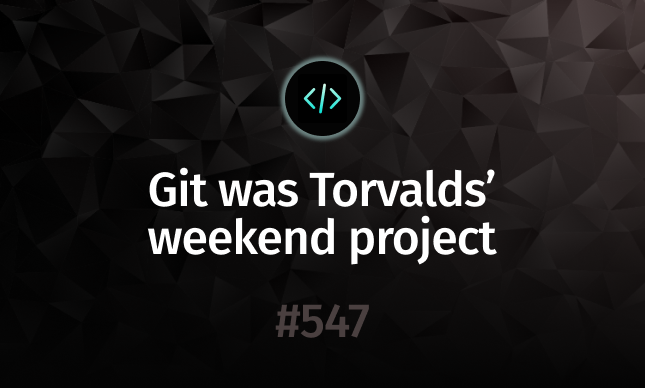
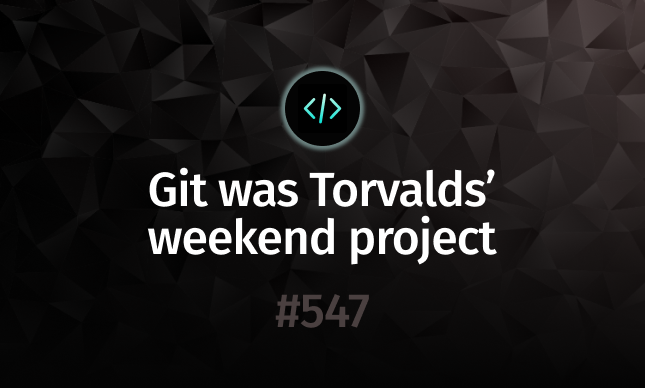
Tigther OG + remove css

Changed region(s): [[0.4341, 0.1237, 0.5891, 0.4021], [0.4031, 0.7423, 0.5891, 0.866]]

diff --git a/styles/globals.css b/styles/globals.css
@@ -70,141 +70,6 @@
   }
 }
 
-
-.tilt-card {
-  position: relative;
-  width: 300px;
-  height: 300px;
-}
-.tilt-card-contents {
-  font-family: "Fira Sans", sans-serif;
-  position: absolute;
-  /* background: url(https://source.unsplash.com/300x300/?cat) 50% 50% / cover no-repeat; */
-  box-shadow: 0 0 50px rgba(0, 0, 0, 0.3);
-  transition: 0.5s ease;
-}
-.hover-point {
-  position: absolute;
-  z-index: 2;
-  width: calc(100% / 3);
-  height: calc(100% / 3);
-}
-.hover-point:nth-child(1) {
-  top: 0;
-  left: 0;
-}
-.hover-point:nth-child(2) {
-  top: 0;
-  left: calc(100% / 3);
-}
-.hover-point:nth-child(3) {
-  top: 0;
-  right: 0;
-}
-.hover-point:nth-child(4) {
-  top: calc(100% / 3);
-  left: 0;
-}
-.hover-point:nth-child(5) {
-  top: calc(100% / 3);
-  right: 0;
-}
-.hover-point:nth-child(6) {
-  bottom: 0;
-  left: 0;
-}
-.hover-point:nth-child(7) {
-  bottom: 0;
-  left: calc(100% / 3);
-}
-.hover-point:nth-child(8) {
-  bottom: 0;
-  right: 0;
-}
-.hover-point:nth-child(1):hover ~ .tilt-card-contents {
-  box-shadow: 15px 15px 50px rgba(0, 0, 0, 0.3);
-  transform-origin: right top;
-  transform: perspective(1000px) rotateX(10deg) rotateY(-10deg) rotateZ(2deg);
-}
-.hover-point:nth-child(2):hover ~ .tilt-card-contents {
-  box-shadow: 0 15px 50px rgba(0, 0, 0, 0.3);
-  transform-origin: center top;
-  transform: perspective(1000px) rotateX(10deg);
-}
-.hover-point:nth-child(3):hover ~ .tilt-card-contents {
-  box-shadow: -15px 15px 50px rgba(0, 0, 0, 0.3);
-  transform-origin: left top;
-  transform: perspective(1000px) rotateX(10deg) rotateY(10deg) rotateZ(-2deg);
-}
-.hover-point:nth-child(4):hover ~ .tilt-card-contents {
-  box-shadow: 15px 5px 50px rgba(0, 0, 0, 0.3);
-  transform-origin: left center;
-  transform: perspective(1000px) rotateY(-10deg);
-}
-.hover-point:nth-child(5):hover ~ .tilt-card-contents {
-  box-shadow: -15px 5px 50px rgba(0, 0, 0, 0.3);
-  transform-origin: right center;
-  transform: perspective(1000px) rotateY(10deg);
-}
-.hover-point:nth-child(6):hover ~ .tilt-card-contents {
-  box-shadow: 15px -15px 50px rgba(0, 0, 0, 0.3);
-  transform-origin: right bottom;
-  transform: perspective(1000px) rotateX(-10deg) rotateY(-10deg) rotateZ(-2deg);
-}
-.hover-point:nth-child(7):hover ~ .tilt-card-contents {
-  box-shadow: 0 -15px 50px rgba(0, 0, 0, 0.3);
-  transform-origin: center bottom;
-  transform: perspective(1000px) rotateX(-10deg);
-}
-.hover-point:nth-child(8):hover ~ .tilt-card-contents {
-  box-shadow: -15px -15px 50px rgba(0, 0, 0, 0.3);
-  transform-origin: left bottom;
-  transform: perspective(1000px) rotateX(-10deg) rotateY(10deg) rotateZ(2deg);
-}
-
-.tilt-card-container {
-  padding: 2em;
-}
-input[type="checkbox"]:checked ~ .box .hover-point {
-  counter-increment: point;
-}
-input[type="checkbox"]:checked ~ .box .hover-point::before {
-  position: absolute;
-  top: 50%;
-  left: 50%;
-  transform: translate(-50%, -50%);
-  content: counter(point);
-  color: #fff;
-  font-size: 1.5rem;
-}
-input[type="checkbox"]:checked ~ .box .hover-point:nth-child(1) {
-  background: rgba(46, 204, 113, 0.5);
-}
-input[type="checkbox"]:checked ~ .box .hover-point:nth-child(2) {
-  background: rgba(52, 152, 219, 0.5);
-}
-input[type="checkbox"]:checked ~ .box .hover-point:nth-child(3) {
-  background: rgba(155, 89, 182, 0.5);
-}
-input[type="checkbox"]:checked ~ .box .hover-point:nth-child(4) {
-  background: rgba(241, 196, 15, 0.5);
-}
-input[type="checkbox"]:checked ~ .box .hover-point:nth-child(5) {
-  background: rgba(230, 126, 34, 0.5);
-}
-input[type="checkbox"]:checked ~ .box .hover-point:nth-child(6) {
-  background: rgba(231, 76, 60, 0.5);
-}
-input[type="checkbox"]:checked ~ .box .hover-point:nth-child(7) {
-  background: rgba(26, 188, 156, 0.5);
-}
-input[type="checkbox"]:checked ~ .box .hover-point:nth-child(8) {
-  background: rgba(149, 165, 166, 0.5);
-}
-.box {
-  margin-top: 2em;
-}
-
 .atvImg {
 	border-radius: 5px;
 	transform-style: preserve-3d;

diff --git a/pages/trivia/git/3-days.js b/pages/trivia/git/3-days.js
@@ -9,17 +9,17 @@ export default function Fact() {
         <title>Build your own X. Master any language.</title>
         <link rel="icon" href="/for/favicon.ico" />
         <meta name="title" content="Git Trivia #547" />
-        <meta name="description" content="Torvald built Git over the weekend" />
+        <meta name="description" content="Torvalds built Git over the weekend" />
 
         <meta property="og:type" content="website" />
         <meta property="og:url" content="https://codecrafters.io/" />
         <meta
           property="og:title"
-          content="Torvald built Git over the weekend"
+          content="Torvalds built Git over the weekend"
         />
         <meta
           property="og:description"
-          content="Torvald built Git over the weekend"
+          content="Torvalds built Git over the weekend"
         />
         <meta
           property="og:image"
@@ -30,11 +30,11 @@ export default function Fact() {
         <meta property="twitter:url" content="https://codecrafters.io" />
         <meta
           property="twitter:title"
-          content="Torvald built Git over the weekend"
+          content="Torvalds built Git over the weekend"
         />
         <meta
           property="twitter:description"
-          content="Torvald built Git over the weekend"
+          content="Torvalds built Git over the weekend"
         />
         <meta
           property="twitter:image"
